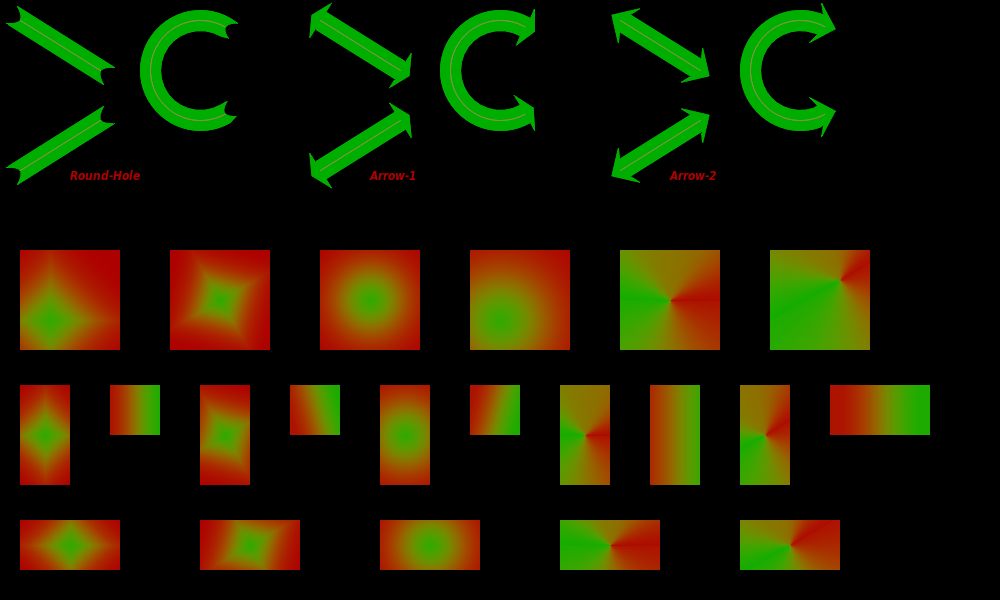
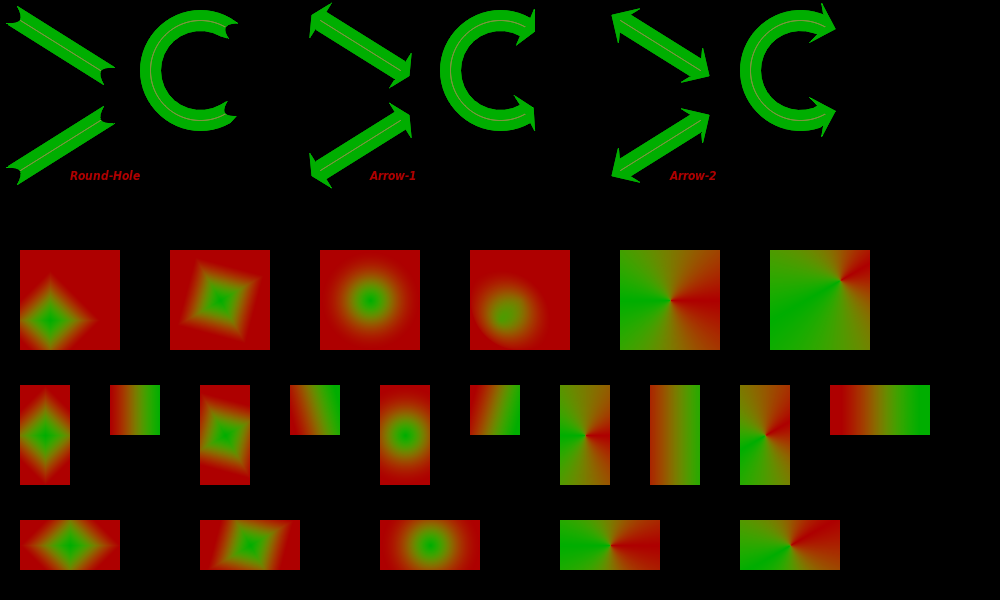
Experimenting with gradients

diff --git a/src/Pt-Gfx/Rasterizer2.cpp b/src/Pt-Gfx/Rasterizer2.cpp
@@ -75,20 +75,21 @@ static inline T logisticSigmoid(T v)
 }
 
 
+/*
 // Weighting filter for Xiaolin Wu's anti-aliasing algorithm
 // Inspired by http://www.crbond.com/papers/anti_alias.pdf
 // y = 1.0 - pow( (x / 255.0), 1.88 )
 //
-//lprintf("    static const Pt::uint8_t aaLUT[256] = {\n        ");
-//for(int c = 0, i = 0; i <= 255; ++i) {
-//    const double n = (float) i / 255.0;
-//    const double q = 1.0 - pow(n, 1.88);
-//    const int    a = q * 255.0; ++c;
-//    lprintf("%3d%c ", (a > 255) ? 255 : a, (i == 255) ? ' ' : ',');
-//    if(c >= 20) { c = 0; lprintf("\n        "); }
-//}
-//lprintf("\n    };\n\n"); exit(0);
-//
+lprintf("    static const Pt::uint8_t aaLUT[256] = {\n        ");
+for(int c = 0, i = 0; i <= 255; ++i) {
+    const double n = (float) i / 255.0;
+    const double q = 1.0 - pow(n, 1.88);
+    const int    a = q * 255.0; ++c;
+    lprintf("%3d%c ", (a > 255) ? 255 : a, (i == 255) ? ' ' : ',');
+    if(c >= 20) { c = 0; lprintf("\n        "); }
+}
+lprintf("\n    };\n\n"); exit(0);
+*/
 const Pt::uint8_t Rasterizer2::XWAA_WFILTER[256] = {
     255, 254, 254, 254, 254, 254, 254, 254, 254, 254, 254, 254, 254, 254, 253, 253, 253, 253, 253, 253,
     252, 252, 252, 252, 252, 251, 251, 251, 250, 250, 250, 250, 249, 249, 249, 248, 248, 248, 247, 247,
@@ -448,8 +449,7 @@ void Rasterizer2::updateGradientBrush_gen1DHorVerGradient(Pt::int32_t width, Pt:
 }
 
 
-void Rasterizer2::updateGradientBrush_gen2DLinearGradient(Pt::int32_t width,
-                                                          Pt::int32_t height)
+void Rasterizer2::updateGradientBrush_gen2DLinearGradient(Pt::int32_t width, Pt::int32_t height)
 {
     // Determine the start and end colors
     Pt::uint8_t sc[4], ec[4], rc[4];
@@ -550,23 +550,24 @@ void Rasterizer2::updateGradientBrush_gen2DRectangularGradient(Pt::int32_t width
     // Generate the gradient
     Pt::uint8_t* pixel = _brushBuffer.data();
     for(Pt::int32_t y = 0; y < height; ++y) {
-        // Calculate the delta Y from the focus and center points
+        // Calculate the delta Y from the focus point
         const float dy = y - focusY;
-        const float cy = y - centerY;
         for(Pt::int32_t x = 0; x < width; ++x) {
-            // Calculate the delta X from the focus and center points
+            // Calculate the delta X from the focus point
             const float dx = x - focusX;
-            const float cx = x - centerX;
             // Calculate the rotated deltas from the focus point
-            const float ry = fabs(-sval * dx + cval * dy);
-            const float rx = fabs( cval * dx + sval * dy);
-            // Calculate the inverse distance from the focus and center points
-            float dist = 1.0f - (rx + ry) * ilen;
-            float cent = 1.0f - (cx + cy) * ilen;
+            const float ry = -sval * dx + cval * dy;
+            const float rx =  cval * dx + sval * dy;
+            // Calculate the inverse distance from the focus point
+            float dist = 1.0f - ( fabs(rx) + fabs(ry) ) * ilen;
             if(dist < 0.0f) dist = 0.0f;
-            if(cent < 0.0f) cent = 0.0f;
+#if 0
+            // Perform gradient repeat
+            const float repcn = 3.0f;
+            dist = fabs( sinf( (repcn + 1.0f / sqrtf(2.0f)) * sqrtf(2.0f) * piHalf<float>() * dist ) );
+#endif
             // Calculate the blending factor
-            const float mf = 1.0f - dist * powf(cent, 0.25f);
+            const float mf = 1.0f - dist;
             // Interpolate the color
             eqpLerp(rc, sc, ec, mf);
             // Put the pixel
@@ -579,8 +580,7 @@ void Rasterizer2::updateGradientBrush_gen2DRectangularGradient(Pt::int32_t width
 }
 
 
-void Rasterizer2::updateGradientBrush_gen2DRadialGradient(Pt::int32_t width,
-                                                          Pt::int32_t height)
+void Rasterizer2::updateGradientBrush_gen2DRadialGradient(Pt::int32_t width, Pt::int32_t height)
 {
     // Determine the start and end colors
     Pt::uint8_t sc[4], ec[4], rc[4];
@@ -622,8 +622,13 @@ void Rasterizer2::updateGradientBrush_gen2DRadialGradient(Pt::int32_t width,
             float cent = 1.0f - sqrtf(cx * cx + cy * cy) * ilen;
             if(dist < 0.0f) dist = 0.0f;
             if(cent < 0.0f) cent = 0.0f;
+#if 0
+            // Perform gradient repeat
+            const float repcn = 3.0f;
+            dist = fabs( sinf( (repcn + 1.0f / sqrtf(2.0f)) * sqrtf(2.0f) * piHalf<float>() * dist ) );
+#endif
             // Calculate the blending factor
-            const float mf = 1.0f - dist * powf(cent, 0.25f);
+            const float mf = 1.0f - dist * powf(cent, 0.5f);
             // Interpolate the color
             eqpLerp(rc, sc, ec, mf);
             // Put the pixel
@@ -769,8 +774,7 @@ void Rasterizer2::updateGradientBrush_gen2DConicalGradient(Pt::int32_t width, Pt
 }
 
 
-void Rasterizer2::updateGradientBrush_getStartEndColors(Pt::uint8_t rgbaStart[4],
-                                                        Pt::uint8_t rgbaEnd[4])
+void Rasterizer2::updateGradientBrush_getStartEndColors(Pt::uint8_t rgbaStart[4], Pt::uint8_t rgbaEnd[4])
 {
     rgbaStart[0] = _brush.color().red  () / 257;
     rgbaStart[1] = _brush.color().green() / 257;

diff --git a/src/Pt-Gfx/tests/ImagePainterTest2.cpp b/src/Pt-Gfx/tests/ImagePainterTest2.cpp
@@ -67,7 +67,7 @@ using namespace Pt::Gfx;
 
 // Detailed-test enable settings for Pt-Gfx
 #define TEST_SOURCECOPY                         1
-#define TEST_SOURCEOVER                         0
+#define TEST_SOURCEOVER                         1
 
 #define TEST_DRAW_SOLID_LINE_AND_TEXT           0 // (including bezier)
 #define TEST_DRAW_PATTERNED_LINE                0 // (including bezier)
